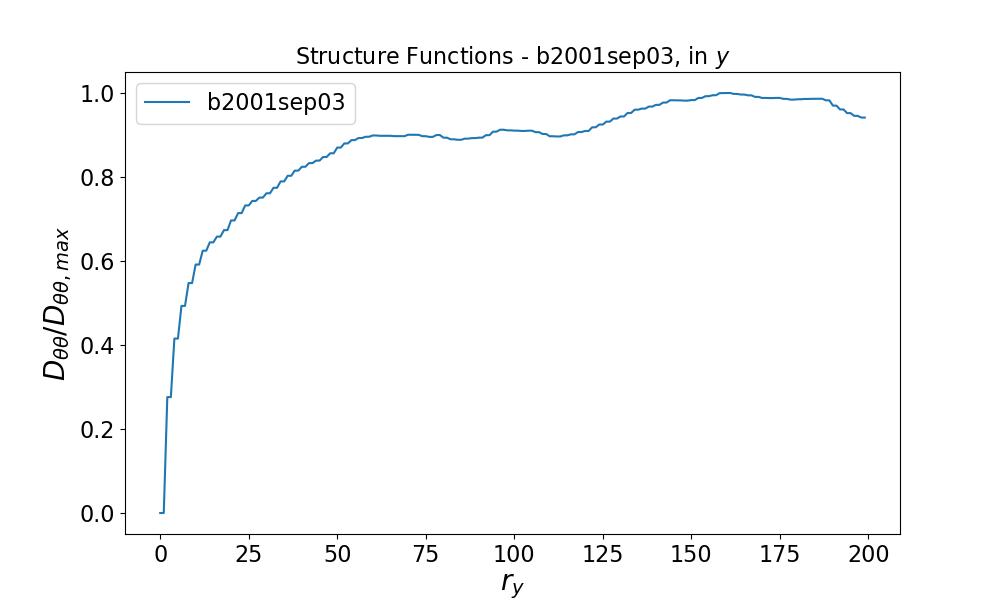
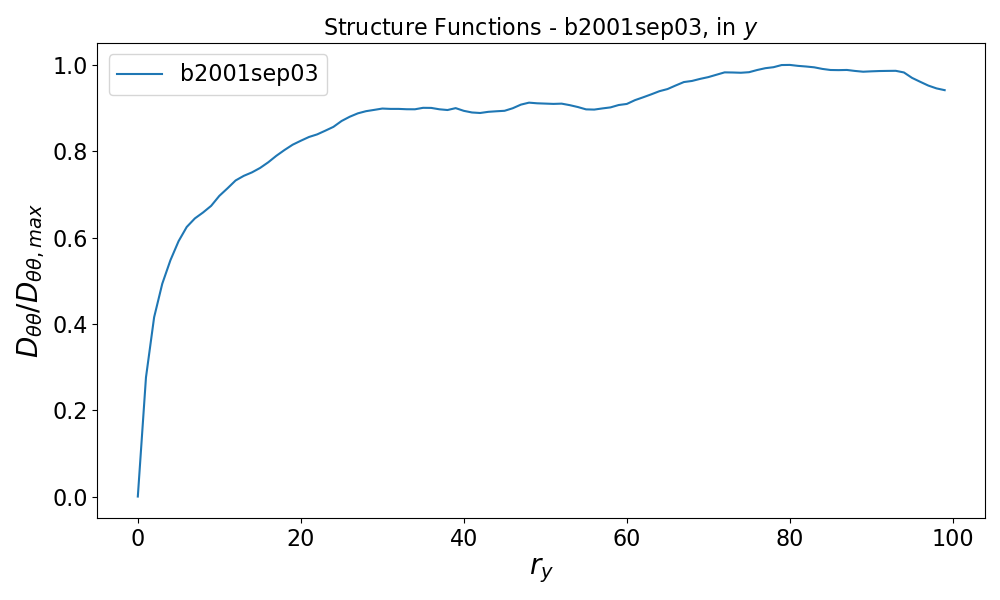
new runs

diff --git a/quantify_het/quantify_het_semivar.py b/quantify_het/quantify_het_semivar.py
@@ -20,7 +20,6 @@ os.chdir(os.path.join("create_surfaces"))
 # define constants - these are changed in class cnst in constants.py
 label = cnst.label
 root = cnst.root
-reso = 10000
 conv = cnst.conv
 ice_temp = cnst.ice_temp
 water_temp = cnst.water_temp
@@ -34,10 +33,10 @@ plt.close('all')
 
 # load the array text file from the surface folder
 # current options: checkerboard, strips, SIPS200, SIPS10k
-project = 'SIPS10k'
+project = 'SIPS200'
 noise = False
 peak = False
-lp = os.path.join(root, 'surfaces','SIPS10k_templates','no_ponds','to_analyze')
+lp = os.path.join(root, 'surfaces','SIPS200_templates','no_ponds')
 semivariogram_sp = os.path.join(root,'results','structure_functions',project)
 int_bar_graph_sp = os.path.join(root,'results','int_het_scale_comparison',project)
 int_scale_csv_sp = os.path.join(root, 'results','int_het_scale_txts',project)
@@ -83,10 +82,10 @@ for filename in sorted(os.listdir(lp)):
         struc_title = f"Structure Functions - {fname}"
         int_scale_title = f'Integral Het. Scale - {fname}'
         
-        # change resolution of array - if needed
-        if int(reso) != np.shape(arr)[0]:
-            print(f"\n    Converting array from {np.shape(arr)} to reso={reso}")
-            arr = fn.conv_np_array_reso(arr, int(reso))
+#        # change resolution of array - if needed
+#        if int(reso) != np.shape(arr)[0]:
+#            print(f"\n    Converting array from {np.shape(arr)} to reso={reso}")
+#            arr = fn.conv_np_array_reso(arr, int(reso))
         
         # add noise to array, if flagged
         if noise:
@@ -110,6 +109,7 @@ for filename in sorted(os.listdir(lp)):
         ax_x.tick_params(labelsize=16)
         ax_x.legend(fontsize=16)
         ax_x.set_title(struc_title+r", in $x$",fontsize=16)
+        fig_x.tight_layout()
         fig_x.savefig(os.path.join(semivariogram_sp,fname + '_x.png'))
         
         # create semivariogram in y
@@ -120,6 +120,7 @@ for filename in sorted(os.listdir(lp)):
         ax_y.tick_params(labelsize=16)
         ax_y.legend(fontsize=16)
         ax_y.set_title(struc_title+r", in $y$",fontsize=16)
+        fig_y.tight_layout()
         fig_y.savefig(os.path.join(semivariogram_sp,fname+'_y.png'))
 
         

diff --git a/funcs.py b/funcs.py
@@ -120,13 +120,13 @@ def semivariogram(arr,peak=False):
     """
     
     # range of rx
-    rx_vals = np.arange(np.shape(arr)[1])
+    rx_vals = np.arange(np.shape(arr)[1]//2)
     
     # empty list for semivar
     semivar = []
     
     # for each spatial translation vector
-    for rx in rx_vals//2:
+    for rx in rx_vals:
         
         # print rx (optional)
         rxl = len(rx_vals)
